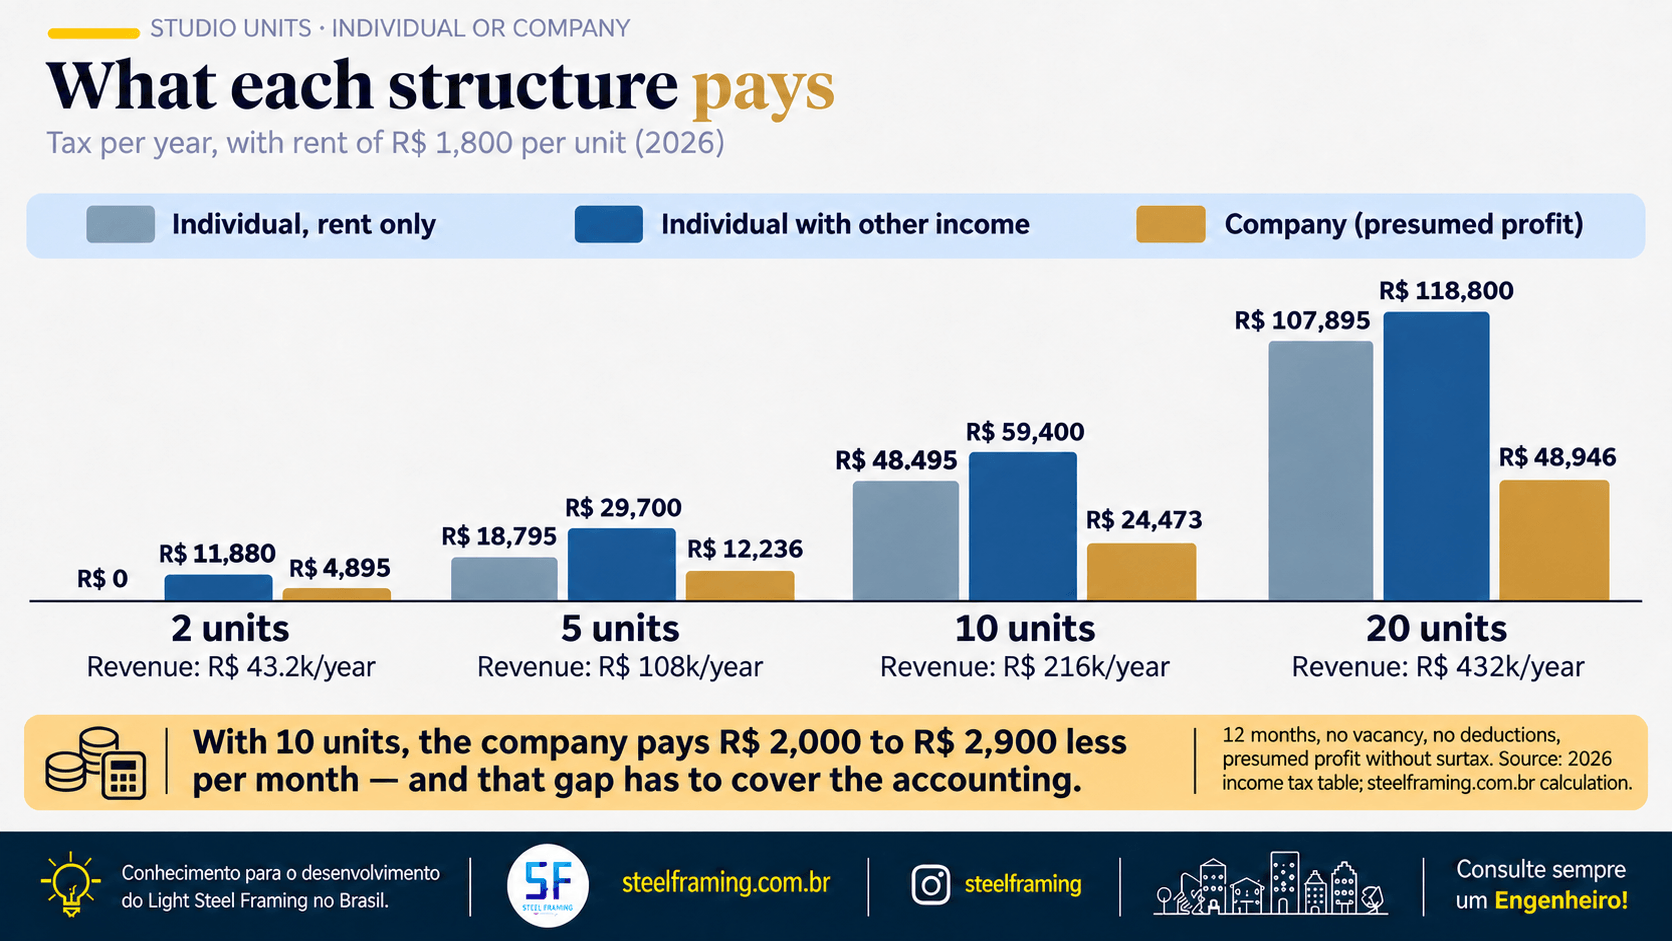
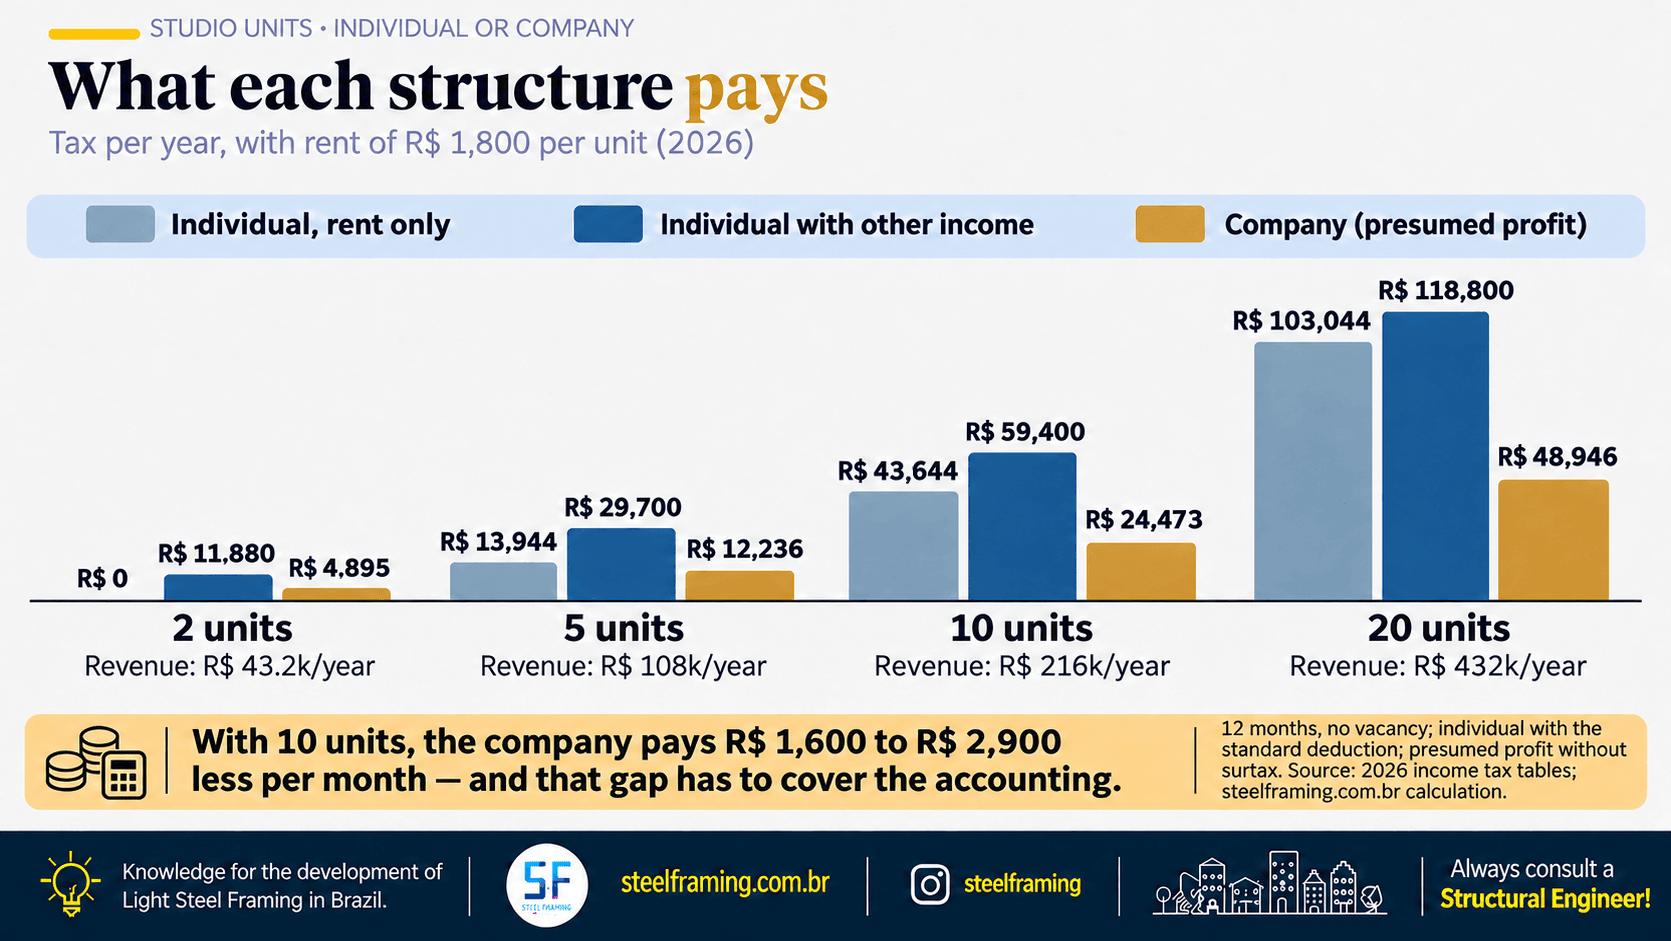
Kitnets PF/PJ: restore corrected infographics 03, 04 and 08
- New 03, 04 and 08 (PT and EN) with the corrected rent-only figures
- 07 PT source fixed; 01, 02 and 07 EN footers in English, 02 EN "4.8%"
- 03 EN: thousands separator fixed in "R$ 43,644"
- Figures back on the article with the tables in "see as a table"

Claude-Session: https://claude.ai/code/session_01EkZYy9ZJ9vE6SXU5eWSD51

diff --git a/public/content/mercado-de-investimento/kitnets/pessoa-fisica-ou-juridica/index.html b/public/content/mercado-de-investimento/kitnets/pessoa-fisica-ou-juridica/index.html
@@ -327,8 +327,13 @@
 <p class="kit-lead">Para quem vive só do aluguel, a empresa passa a pagar menos imposto a partir de 5 kitnets; para quem já tem outra renda, desde a primeira. Mas ela só compensa quando essa diferença cobre o custo de mantê-la.</p>
 <p>Premissas: aluguel de R$&nbsp;1.800 por unidade, 12 meses sem vacância, regras de 2026, empresa no lucro presumido sem adicional. Dois perfis: quem vive só do aluguel, com o desconto simplificado da declaração anual e sem outras deduções; e quem já tem outra renda tributável (salário, pró-labore), que já usa o desconto e faz o aluguel inteiro pagar 27,5%.</p>
 </div>
+<figure class="figure-wide">
+<img src="/images/mercado-de-investimento/kitnets/pf-pj/pfpj-03-quanto-cada-estrutura-paga.png" alt="Gráfico de barras: imposto anual de 2 a 20 kitnets na pessoa física, com e sem outra renda, e na empresa no lucro presumido." width="1672" height="941" loading="lazy">
+<figcaption>Imposto por ano com aluguel de R$&nbsp;1.800 por unidade, regras de 2026, sem vacância; pessoa física com desconto simplificado.</figcaption>
+</figure>
 <div class="content-narrow">
-<h3>Imposto por ano</h3>
+<details class="kit-details">
+<summary>Ver os números em tabela</summary>
 <div class="table-wrap">
 <table class="data-table">
 <thead><tr><th>Kitnets</th><th>Receita por ano</th><th>Pessoa física, só aluguel</th><th>Pessoa física com outra renda</th><th>Empresa (lucro presumido)</th></tr></thead>
@@ -340,7 +345,7 @@
 </tbody>
 </table>
 </div>
-<p class="kit-small">Imposto por ano com aluguel de R$&nbsp;1.800 por unidade, regras de 2026, sem vacância.</p>
+</details>
 <h3>Quanto sobra por mês para pagar a empresa</h3>
 <p>A diferença de imposto a favor da empresa é o teto do que ela pode custar — contabilidade, obrigações acessórias, taxas — para ainda compensar.</p>
 <div class="table-wrap">
@@ -355,7 +360,13 @@
 </table>
 </div>
 <h3>O ponto de virada</h3>
-<p>Se a empresa custar R$&nbsp;800 por mês, ela passa a compensar a partir de 8 kitnets para quem vive só do aluguel e de 3 para quem já tem outra renda. Com custo de R$&nbsp;1.200 por mês, a partir de 9 e de 5 kitnets. Os dois custos são hipóteses de cálculo.</p>
+<p>Se a empresa custar R$&nbsp;800 por mês, ela passa a compensar a partir de 8 kitnets para quem vive só do aluguel e de 3 para quem já tem outra renda. Com custo de R$&nbsp;1.200 por mês, a partir de 9 e de 5 kitnets.</p>
+</div>
+<figure class="figure-wide">
+<img src="/images/mercado-de-investimento/kitnets/pf-pj/pfpj-04-ponto-de-virada.png" alt="Ponto de virada: com empresa custando R$ 800 por mês, ela compensa a partir de 8 kitnets para quem vive do aluguel e de 3 para quem tem outra renda." width="1672" height="941" loading="lazy">
+<figcaption>Os custos da empresa (R$&nbsp;800 e R$&nbsp;1.200 por mês) são hipóteses de cálculo.</figcaption>
+</figure>
+<div class="content-narrow">
 <div class="pullquote"><strong>A outra renda do investidor pesa mais que o número de kitnets.</strong> O custo da empresa usado aqui é hipótese, não orçamento: peça o seu ao contador.</div>
 <p>Para o investidor, o que importa é o resultado depois de tudo: receita efetiva menos despesas de operação, tributos e custos da estrutura — e, na empresa, o que de fato chega ao sócio.</p>
 <p class="kit-small">Valores ilustrativos, calculados pelas tabelas de 2026, sem vacância. Não são preço de mercado nem previsão de rentabilidade.</p>
@@ -471,8 +482,11 @@
 <div class="check-item"><strong>Holding patrimonial</strong><span>Vários ativos, família ou sócios e sucessão a planejar, com os custos de transferência e manutenção justificados pelos benefícios.</span></div>
 </div>
 </div>
+<figure class="figure-wide">
+<img src="/images/mercado-de-investimento/kitnets/pf-pj/pfpj-08-qual-estrutura-para-qual-perfil.png" alt="Três perfis: pessoa física para poucas unidades, empresa a partir de 8 a 9 kitnets para quem vive do aluguel e holding para vários imóveis e sucessão." width="1672" height="941" loading="lazy">
+<figcaption>Faixas da simulação, com aluguel de R$&nbsp;1.800 e custo de empresa de R$&nbsp;800 a R$&nbsp;1.200 por mês.</figcaption>
+</figure>
 <div class="content-narrow">
-<p class="kit-small">Faixas da simulação, com aluguel de R$&nbsp;1.800 e custo de empresa de R$&nbsp;800 a R$&nbsp;1.200 por mês.</p>
 <p>Não existe um número universal de kitnets: a renda total do investidor, a situação de registro dos imóveis, os custos e os objetivos mudam o resultado.</p>
 </div>
 </section>

diff --git a/public/content/en/mercado-de-investimento/kitnets/individual-or-company/index.html b/public/content/en/mercado-de-investimento/kitnets/individual-or-company/index.html
@@ -333,8 +333,13 @@
 <p class="kit-lead">For someone living only on the rent, a company starts paying less tax from 5 units; for someone who already has other income, from the first one. But it only pays off when that difference covers the cost of running it.</p>
 <p>Assumptions: rent of R$&nbsp;1,800 per unit, 12 months with no vacancy, 2026 rules, company under presumed profit with no surtax. Two investor profiles: someone living only on the rent, using the standard deduction in the annual return and no other deductions; and someone who already has other taxable income (salary, director’s fees), who already uses the deduction and pays 27.5% on all the rent.</p>
 </div>
+<figure class="figure-wide">
+<img src="/images/mercado-de-investimento/kitnets/pf-pj/pfpj-03-quanto-cada-estrutura-paga-en.png" alt="Bar chart: annual tax for 2 to 20 studio units as an individual, with and without other income, and as a company under presumed profit." width="1672" height="941" loading="lazy">
+<figcaption>Tax per year with rent of R$&nbsp;1,800 per unit, 2026 rules, no vacancy; individual with the standard deduction.</figcaption>
+</figure>
 <div class="content-narrow">
-<h3>Tax per year</h3>
+<details class="kit-details">
+<summary>See the numbers as a table</summary>
 <div class="table-wrap">
 <table class="data-table">
 <thead><tr><th>Units</th><th>Revenue per year</th><th>Individual, rent only</th><th>Individual with other income</th><th>Company (presumed profit)</th></tr></thead>
@@ -346,7 +351,7 @@
 </tbody>
 </table>
 </div>
-<p class="kit-small">Tax per year with rent of R$&nbsp;1,800 per unit, 2026 rules, no vacancy.</p>
+</details>
 <h3>What is left each month to pay for the company</h3>
 <p>The tax difference in the company’s favor is the ceiling on what it can cost — accounting, filings, fees — and still pay off.</p>
 <div class="table-wrap">
@@ -361,7 +366,13 @@
 </table>
 </div>
 <h3>The break-even point</h3>
-<p>If the company costs R$&nbsp;800 a month, it pays off from 8 units for someone living only on the rent, and from 3 for someone who already has other income. At R$&nbsp;1,200 a month, from 9 and from 5 units. Both costs are calculation assumptions.</p>
+<p>If the company costs R$&nbsp;800 a month, it pays off from 8 units for someone living only on the rent, and from 3 for someone who already has other income. At R$&nbsp;1,200 a month, from 9 and from 5 units.</p>
+</div>
+<figure class="figure-wide">
+<img src="/images/mercado-de-investimento/kitnets/pf-pj/pfpj-04-ponto-de-virada-en.png" alt="Break-even point: with a company costing R$ 800 a month, it pays off from 8 units for those living on the rent and from 3 for those with other income." width="1672" height="941" loading="lazy">
+<figcaption>Company costs of R$&nbsp;800 and R$&nbsp;1,200 a month are calculation assumptions.</figcaption>
+</figure>
+<div class="content-narrow">
 <div class="pullquote"><strong>The investor’s other income matters more than the number of units.</strong> The company cost used here is an assumption, not a quote: ask your accountant for yours.</div>
 <p>What matters to the investor is the result after everything: actual revenue minus operating expenses, taxes and the cost of the structure — and, in a company, what actually reaches the partner.</p>
 <p class="kit-small">Illustrative figures, calculated with 2026 tables and no vacancy. They are not market prices or a return forecast.</p>
@@ -477,8 +488,11 @@
 <div class="check-item"><strong>Holding company</strong><span>Several assets, family or partners and succession to plan, with transfer and running costs justified by the benefits.</span></div>
 </div>
 </div>
+<figure class="figure-wide">
+<img src="/images/mercado-de-investimento/kitnets/pf-pj/pfpj-08-qual-estrutura-para-qual-perfil-en.png" alt="Three profiles: individual for few units, company from 8 to 9 units for those living on the rent and holding company for several properties and succession." width="1672" height="941" loading="lazy">
+<figcaption>Ranges from the simulation, with rent of R$&nbsp;1,800 and company costs of R$&nbsp;800 to R$&nbsp;1,200 a month.</figcaption>
+</figure>
 <div class="content-narrow">
-<p class="kit-small">Ranges from the simulation, with rent of R$&nbsp;1,800 and company costs of R$&nbsp;800 to R$&nbsp;1,200 a month.</p>
 <p>There is no universal number of units: the investor’s total income, how the properties are registered, costs and goals all change the result.</p>
 </div>
 </section>
